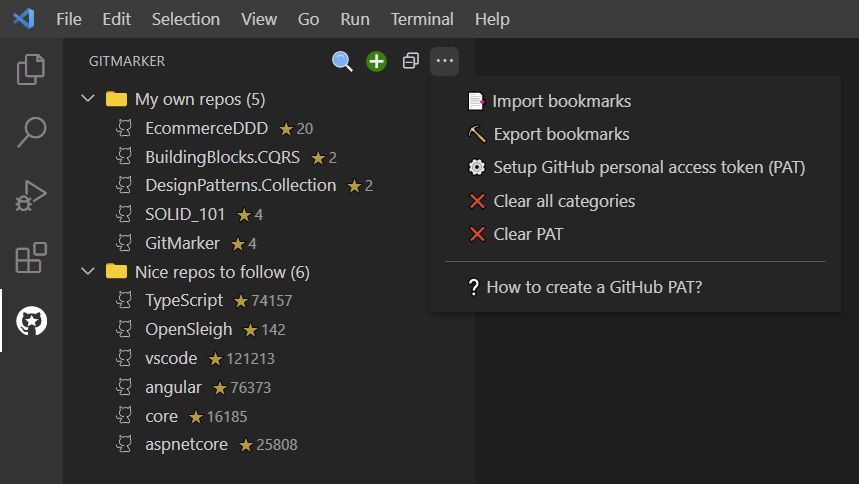
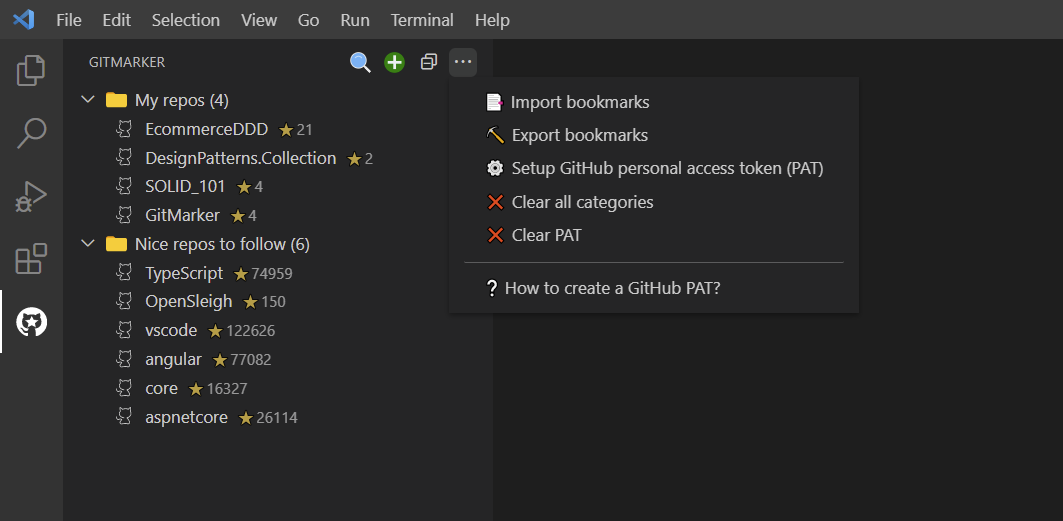
Security update

diff --git a/src/services/search-result-manager.ts b/src/services/search-result-manager.ts
@@ -57,7 +57,7 @@ export class SearchResultManager {
   private initializeValues() {
     this.resultsPerPage = vscode.workspace
       .getConfiguration(GITMARKER_CONFIG)
-      .get(SEARCH_RESULTS_NUMBER) as number;
+      .get<number>(SEARCH_RESULTS_NUMBER);
 
     this.pageSelectedItems = [];
     this.searchResults = [];
@@ -69,7 +69,7 @@ export class SearchResultManager {
   private initializePicker(repoPickItems: RepoPickItem[]) {
     this.resultsPerPage = vscode.workspace
 			.getConfiguration(GITMARKER_CONFIG)
-			.get(SEARCH_RESULTS_NUMBER) as number;
+			.get<number>(SEARCH_RESULTS_NUMBER);
         
     this.quickPick = this.buildQuickPicker();
     this.quickPick.buttons = this.buildQuickPickButtons();
@@ -78,8 +78,8 @@ export class SearchResultManager {
     this.quickPick.show();
 
     // onDidTriggerButton event
-    this.quickPick.onDidTriggerButton(async item => {
-      await this.onDidTriggerButton(item, repoPickItems);			
+    this.quickPick.onDidTriggerButton(async button  => {
+      await this.onDidTriggerButton(button as PavigationButton, repoPickItems);			
     });
     
     // onDidChangeSelection event
@@ -207,7 +207,7 @@ export class SearchResultManager {
 
   // QuickPick Events
 	private async onDidChangeSelection(selectedItems: readonly RepoPickItem[]) {
-		const selected = (selectedItems as RepoPickItem[]).map(a => a);
+		const selected = selectedItems.map((i: RepoPickItem) => i);
 		const currentPageItems = this.pageSelectedItems
 			.filter(e => e.page === this.currentPage)[0];
 		
@@ -220,8 +220,7 @@ export class SearchResultManager {
 		currentPageItems.items = selected;
 	}
 
-	private async onDidTriggerButton(quickInputButton: vscode.QuickInputButton, repoPickItems: RepoPickItem[] ) {		
-		const button = (quickInputButton as PavigationButton);
+	private async onDidTriggerButton(button: PavigationButton, repoPickItems: RepoPickItem[] ) {		
 
 		// BACK BUTTON
 		if (button.direction === NavDirection.left) {

diff --git a/src/commands/import-bookmarks.ts b/src/commands/import-bookmarks.ts
@@ -4,7 +4,6 @@ import {
 	ARE_YOU_SURE_IMPORT_MSG, 
 	ERROR_IMPORTING_MSG, 
 	NO_MSG, YES_MSG } from '../consts/messages';
-import { validate } from 'class-validator';
 import { plainToClass } from 'class-transformer';
 import { GithubRepository } from '../models/github-repository';
 import { openDialogOptions } from '../utils/dialog-options';
@@ -29,6 +28,10 @@ export class ImportBookmarks implements Command {
 	}
 
 	async execute() {
+		if(!this.bookmarkManager.categoryRepositories) {
+			this.bookmarkManager.categoryRepositories = new CategoriesRepositories();
+		}
+
 		const hasRepositories = this.bookmarkManager
 			.categoryRepositories!.repositories.length > 0;
 
@@ -67,24 +70,17 @@ export class ImportBookmarks implements Command {
 	
 	async validateImport(data: string) {
 		try {
-			let validRepositories: GithubRepository[] = [];
 			const parsedObject = JSON.parse(data);
 			const categoriesRepositories = plainToClass(CategoriesRepositories, parsedObject);
-	
-			// Repository schema validation
 			categoriesRepositories.repositories.forEach(parsedRepository => {
 				const repository  = plainToClass(GithubRepository, parsedRepository);
-				validate(repository)
-				.then(errors => {
-					if (errors.length === 0) {
-						validRepositories.push(repository);
-						categoriesRepositories.repositories = validRepositories;                        
-					}
-				}).finally(() => {
-					this.bookmarkManager.categoryRepositories = categoriesRepositories;
-					this.bookmarkManager.storeAndRefreshProvider();
-				});
+				if(repository) {
+					repository.setCloneUrl();
+				}
 			});
+
+			this.bookmarkManager.categoryRepositories = categoriesRepositories;
+			this.bookmarkManager.storeAndRefreshProvider();
 		} catch (error) {
 			vscode.window.showErrorMessage(ERROR_IMPORTING_MSG);
 		}

diff --git a/src/commands/sync-repository.ts b/src/commands/sync-repository.ts
@@ -1,3 +1,4 @@
+import * as vscode from 'vscode';
 import TYPES from './base/types';
 import BookmarkManager from '../services/bookmark-manager';
 import { inject, injectable} from 'inversify';
@@ -5,6 +6,7 @@ import { SYNC_REPOSITORY } from '../consts/commands';
 import { TreeDataItem } from '../models/tree-data-item';
 import { GitHubApiClient } from '../services/github-api-client';
 import { Command } from './base/command';
+import { REPOSITORY_NOT_AVAILABLE } from '../consts/messages';
 
 @injectable()
 export class SyncRepository implements Command {
@@ -13,7 +15,7 @@ export class SyncRepository implements Command {
 		@inject(TYPES.bookmarkManager) 
 		private bookmarkManager: BookmarkManager,
 		@inject(TYPES.gitHubApiClient) 
-		private githubApiClient: GitHubApiClient
+		private gitHubApiClient: GitHubApiClient
 	) {}
 	
 	get id() {
@@ -23,14 +25,32 @@ export class SyncRepository implements Command {
 	async execute(dataItem: TreeDataItem) {
 		const repositoryId = dataItem.customId;
 		if(repositoryId) {
-			await this.githubApiClient
+			await this.gitHubApiClient
 			.getById(repositoryId)
 			.then(updatedRepository => {
 				if(updatedRepository) {
 					this.bookmarkManager
 						.updateRepository(updatedRepository);
 				}		
+			})
+			.catch(error => {
+				if(error.response){
+					this.showCustomResponseMessage(error.response);					
+				}
 			});
+		}
+	}
+
+	private showCustomResponseMessage(response: any) {
+		switch(response.status) {
+			case 403: 
+			this.gitHubApiClient.accessTokenManager!.showPatWarning();
+			break;
+			case 404:
+				vscode.window.showErrorMessage(REPOSITORY_NOT_AVAILABLE);
+			break;
+			default: 
+				vscode.window.showErrorMessage(response.data.message);			
 		}
 	}
 }

diff --git a/src/services/github-api-client.ts b/src/services/github-api-client.ts
@@ -1,4 +1,3 @@
-import * as vscode from 'vscode';
 import axios, { AxiosInstance, AxiosRequestConfig } from "axios";
 import TYPES from '../commands/base/types';
 import container from '../inversify.config';
@@ -19,7 +18,7 @@ export class GitHubApiClient {
 
 	public constructor(
 			@inject(TYPES.patManager) 
-			private accessTokenManager: PersonalAccessTokenManager
+			public accessTokenManager: PersonalAccessTokenManager
 		) {
 				this.dateTimeHelper = container
 					.get<DateTimeHelper>(TYPES.dateTimeHelper);
@@ -46,15 +45,6 @@ export class GitHubApiClient {
 				license: val.license,
 				lastSyncDate: this.dateTimeHelper.getDateTimeNow()
 			}));						
-		})
-		.catch(error => {
-			const response = error.response;
-			if(response){
-				vscode.window.showErrorMessage(error.response.data.message);
-				if(response.status === 403) {
-					this.accessTokenManager!.showPatWarning();
-				}
-			}
 		});
 
 		return { 
@@ -80,28 +70,19 @@ export class GitHubApiClient {
 			repo.forks = data.forks;
 			repo.license = data.license;
 			repo.lastSyncDate = this.dateTimeHelper.getDateTimeNow();
-		})
-		.catch(error => {
-			const response = error.response;
-			if(response){
-				vscode.window.showErrorMessage(error.response.data.message);
-				if(response.status === 403) {
-					this.accessTokenManager!.showPatWarning();
-				}
-			}
 		});
 
 		return repo;
 	}
 
 	private async buildAxiosClient(): Promise<AxiosInstance> {
-		const config = {
+		const config : AxiosRequestConfig = {
 			responseType: 'json',
 			baseURL: 'https://api.github.com',
 			headers: {
 				'content-Type': 'application/json',	
 			}
-		} as AxiosRequestConfig;
+		};
 
 		await this.accessTokenManager!.getToken()
 			.then(accessToken => {

diff --git a/src/commands/auto-sync-repositories.ts b/src/commands/auto-sync-repositories.ts
@@ -35,7 +35,7 @@ export class AutoSyncRepositories implements Command {
 			// Request rate limit - it needs to be at least 1 minute outdated
 			const minimumWaitSync = 1;
 			const reposToSync = this.bookmarkManager
-				.categoryRepositories!.repositories
+         .categoryRepositories!.repositories
 			.filter(r => 
 				this.dateTimeHelper.getTimeDiff(r.lastSyncDate)
 				.minutes > minimumWaitSync
@@ -50,13 +50,24 @@ export class AutoSyncRepositories implements Command {
 	async syncRepositories(reposToSync: GithubRepository[]) {
 		const tasks: Promise<GithubRepository>[] = [];
 		reposToSync.forEach(repository => {
-			tasks.push(this.gitHubApiClient.getById(repository.id));
+			if(repository) {
+				var getRepositoryTask = this.gitHubApiClient.getById(repository.id);
+				tasks.push(getRepositoryTask);
+			}			
 		});
 		
 		const callUpdateTasks = async () => {
 			for (const task of tasks) {					
-				const repo = await task;
-				this.bookmarkManager.updateRepository(repo);
+				const repository = await task
+				.catch(error => {
+					if(error.response && error.response.status === 403){
+						this.gitHubApiClient.accessTokenManager!.showPatWarning();		
+					}
+				});
+				
+				if(repository) {
+					this.bookmarkManager.updateRepository(repository);
+				}				
 			}
 		};
 

diff --git a/src/services/bookmark-manager.ts b/src/services/bookmark-manager.ts
@@ -121,7 +121,7 @@ export default class BookmarkManager {
 		const index = this.categoryRepositories!.categories
 			?.findIndex(c => c.id === dataItem.id);
 		this.categoryRepositories!.categories
-			?.splice(index as number, 1);
+			?.splice(index, 1);
 	
 		this.storeAndRefreshProvider();
 	}
@@ -133,7 +133,7 @@ export default class BookmarkManager {
 
 	updateRepository(updatedRepository: GithubRepository) {
 		const existingRepository = this.categoryRepositories!.repositories
-			?.filter(c => c.id === updatedRepository.id)[0];
+		?.filter(c => c.id === updatedRepository.id)[0];
 
 		if(existingRepository) {
 			let index = this.categoryRepositories!.repositories
@@ -168,7 +168,7 @@ export default class BookmarkManager {
 		const index = category.repositories
 			?.findIndex(r => r === repositoryId);
 		category.repositories
-			?.splice(index as number, 1);
+			?.splice(index, 1);
 
 		// If no other ocurrences, hard remove it
 		const ocurrences: string[] = [];
@@ -186,7 +186,7 @@ export default class BookmarkManager {
 			let index = this.categoryRepositories!.repositories
 				.indexOf(existingRepository);
 			this.categoryRepositories!.repositories
-				?.splice(index as number, 1);
+				?.splice(index, 1);
 		}
 	}
 }

diff --git a/src/models/github-repository.ts b/src/models/github-repository.ts
@@ -1,8 +1,3 @@
-import {
-	IsInt,
-	Min,
-	MinLength,
- } from 'class-validator';
 import { DateTime } from "luxon";
 import { Uri } from 'vscode';
 
@@ -15,22 +10,21 @@ export class GithubRepository {
 	language!: string;
 	license!: any;
 	lastSyncDate!: DateTime;
-	cloneUrl: string;
-
-	@MinLength(7)
+	cloneUrl: string | undefined;
 	url: Uri;
-
-	@IsInt()
-	@Min(0)
 	stargazersCount!: number;
-
-	@IsInt()
 	forks!: number;
 
 	public constructor(id: string, name: string,  url: Uri) {
 		this.id = id;
 		this.name = name;
-		this.url = url;
-		this.cloneUrl = `${this.url}.git`;
+		this.url = url;	
+		this.setCloneUrl();
+	}
+
+	public setCloneUrl() {
+		if(this.url) {
+			this.cloneUrl = `${this.url}.git`;
+		}		
 	}
 }

diff --git a/src/consts/messages.ts b/src/consts/messages.ts
@@ -7,6 +7,7 @@ export const CLEAR_ALL_CATEGORIES_MSG = 'Are you sure you want to clear all cate
 export const CLEAR_PAT_MSG = 'Are you sure you want to clear your PAT?';
 export const SURE_REMOVING_MSG = 'Are you sure you want to remove';
 export const NO_REPOS_FOUND_MSG = 'No repositories found for';
+export const REPOSITORY_NOT_AVAILABLE = 'This repository is no longer available.';
 export const CLICK_SHOW_RESULTS_FOUND = 'Click to show the results found';
 export const RESULTS_FOR_TERM_MSG = 'Results found for';
 export const ACCESS_TOKEN_REQUIRED_MSG = 'It is recommended that you set your personal GitHub access token for the best experience.';

diff --git a/src/models/repo-pick-item.ts b/src/models/repo-pick-item.ts
@@ -12,7 +12,7 @@ export class PageSelectedItems {
 	constructor(public page:number, public items: RepoPickItem[]) { }
 }
 
-export class PavigationButton implements vscode.QuickInputButtons {
+export class PavigationButton implements vscode.QuickInputButton {
 	constructor(public direction: NavDirection, public iconPath: { light: Uri; dark: Uri; }, 
 		public tooltip: string,) { }
 }

diff --git a/src/models/categories-repositories.ts b/src/models/categories-repositories.ts
@@ -1,11 +1,8 @@
-import { ValidateNested } from "class-validator";
 import { Category } from "./category";
 import { GithubRepository } from "./github-repository";
 
 // Storable object with Categories and Repositories
 export class CategoriesRepositories {
 	categories: Category[] = [];
-	
-	@ValidateNested()
 	repositories: GithubRepository[] = [];
 }

diff --git a/CHANGELOG.md b/CHANGELOG.md
@@ -86,3 +86,11 @@ and this project adheres to [Semantic Versioning](https://semver.org/spec/v2.0.0
 
 - Implemented AutoSync feature for synchronizing repositories when the extension is active.
 it can be enabled/disabled from the extension settings.
+
+<br>
+
+## [1.6.4] - 2021-10-16
+### Changed
+
+- Removed dependency of the class-validator package after potential security vulnerabilities were found.
+- Improved error handling for inactive/non-available bookmarked repositories.
